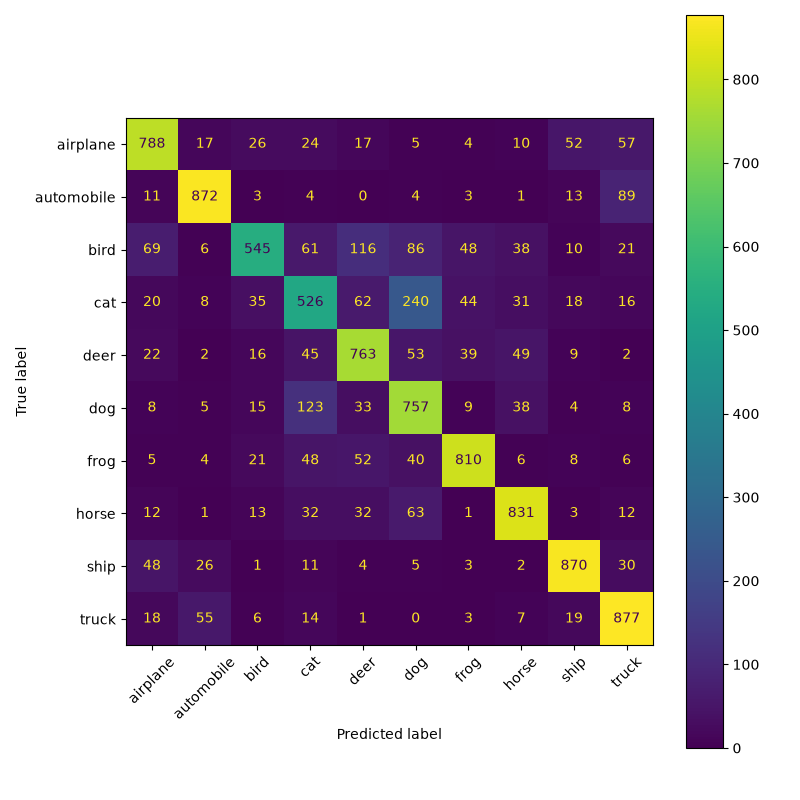
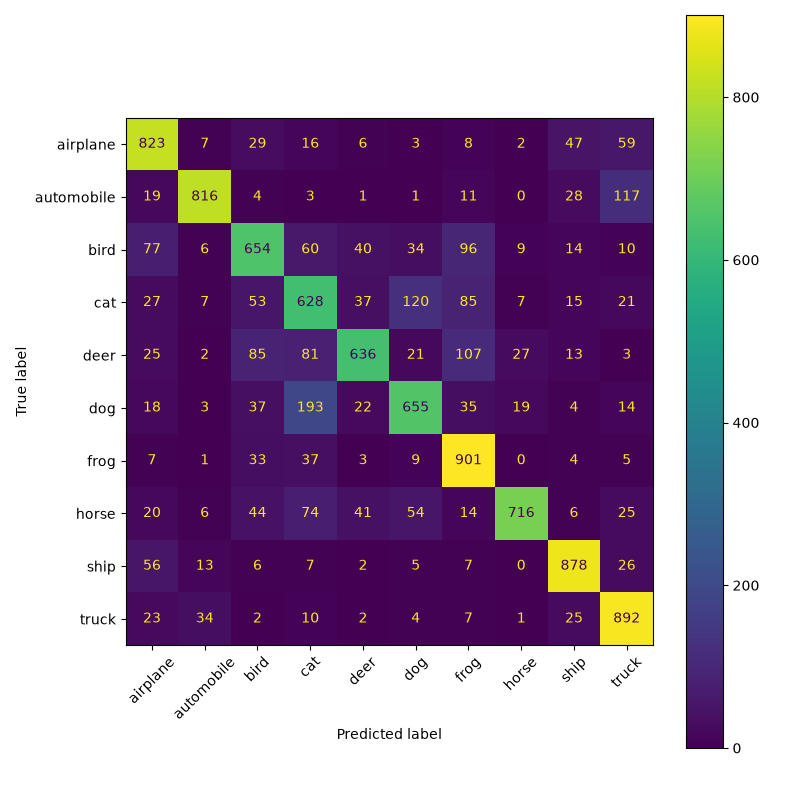
Shard data into smaller files for reliable DagsHub upload

diff --git a/src/train.py b/src/train.py
@@ -1,31 +1,48 @@
-import os, yaml, numpy as np, pandas as pd, torch, torch.nn as nn
+import os
+import yaml
+import torch
+import torch.nn as nn
+import pandas as pd
+from data_io import load_split
 from models import build_model
 
 p = yaml.safe_load(open("params.yaml"))["train"]
 dev = "mps" if torch.backends.mps.is_available() else "cuda" if torch.cuda.is_available() else "cpu"
 
-def load(n):
-    d = np.load(f"data/processed/{n}.npz")
-    return torch.tensor(d["x"]).float(), torch.tensor(d["y"]).long()
 
-xtr, ytr = load("train"); xv, yv = load("val")
+def load(name):
+    x, y = load_split("data/processed", name)
+    return torch.tensor(x).float(), torch.tensor(y).long()
+
+
+xtr, ytr = load("train")
+xv, yv = load("val")
+
 model = build_model(p["num_filters"], p["dropout_rate"]).to(dev)
 opt = torch.optim.Adam(model.parameters(), lr=p["learning_rate"])
 lossf, bs, hist = nn.CrossEntropyLoss(), p["batch_size"], []
 
 for ep in range(p["epochs"]):
-    model.train(); perm = torch.randperm(len(xtr)); tot = 0
+    model.train()
+    perm, total = torch.randperm(len(xtr)), 0.0
     for i in range(0, len(xtr), bs):
-        idx = perm[i:i + bs]; xb, yb = xtr[idx].to(dev), ytr[idx].to(dev)
-        xb = torch.where(torch.rand(len(xb), 1, 1, 1, device=dev) < 0.5, xb.flip(3), xb)  # flip augmentation
-        opt.zero_grad(); loss = lossf(model(xb), yb); loss.backward(); opt.step()
-        tot += loss.item() * len(xb)
+        idx = perm[i:i + bs]
+        xb, yb = xtr[idx].to(dev), ytr[idx].to(dev)
+        flip = torch.rand(len(xb), device=dev) < 0.5                 # random horizontal flip
+        xb = torch.where(flip[:, None, None, None], xb.flip(3), xb)
+        opt.zero_grad()
+        loss = lossf(model(xb), yb)
+        loss.backward()
+        opt.step()
+        total += loss.item() * len(xb)
+
     model.eval()
     with torch.no_grad():
-        out = torch.cat([model(xv[i:i+1000].to(dev)).cpu() for i in range(0, len(xv), 1000)])
-    hist.append(dict(epoch=ep + 1, train_loss=tot / len(xtr), val_loss=lossf(out, yv).item(),
-                     val_acc=(out.argmax(1) == yv).float().mean().item()))
-    print(hist[-1])
+        out = torch.cat([model(xv[i:i + 1000].to(dev)).cpu() for i in range(0, len(xv), 1000)])
+    row = dict(epoch=ep + 1, train_loss=total / len(xtr),
+               val_loss=lossf(out, yv).item(), val_acc=(out.argmax(1) == yv).float().mean().item())
+    hist.append(row)
+    print(row, flush=True)
 
 os.makedirs("models", exist_ok=True)
 torch.save(model.state_dict(), "models/model.pth")

diff --git a/src/evaluate.py b/src/evaluate.py
@@ -1,23 +1,34 @@
-import json, yaml, numpy as np, torch, torch.nn.functional as F
-import matplotlib; matplotlib.use("Agg")
+import json
+import yaml
+import torch
+import torch.nn.functional as F
+import matplotlib
+matplotlib.use("Agg")
 import matplotlib.pyplot as plt
 from sklearn.metrics import confusion_matrix, ConfusionMatrixDisplay
+from data_io import load_split
 from models import build_model
 
 p = yaml.safe_load(open("params.yaml"))["train"]
 dev = "mps" if torch.backends.mps.is_available() else "cuda" if torch.cuda.is_available() else "cpu"
-d = np.load("data/processed/test.npz")
-x, y = torch.tensor(d["x"]).float(), torch.tensor(d["y"]).long()
+
+x, y = load_split("data/processed", "test")
+x, y = torch.tensor(x).float(), torch.tensor(y).long()
 
 model = build_model(p["num_filters"], p["dropout_rate"]).to(dev)
-model.load_state_dict(torch.load("models/model.pth", map_location=dev)); model.eval()
+model.load_state_dict(torch.load("models/model.pth", map_location=dev))
+model.eval()
 with torch.no_grad():
-    out = torch.cat([model(x[i:i+1000].to(dev)).cpu() for i in range(0, len(x), 1000)])
+    out = torch.cat([model(x[i:i + 1000].to(dev)).cpu() for i in range(0, len(x), 1000)])
 
 pred = out.argmax(1)
-json.dump({"test_loss": F.cross_entropy(out, y).item(),
-           "test_accuracy": (pred == y).float().mean().item()}, open("metrics.json", "w"), indent=2)
-classes = ["airplane","automobile","bird","cat","deer","dog","frog","horse","ship","truck"]
+metrics = {"test_loss": F.cross_entropy(out, y).item(),
+           "test_accuracy": (pred == y).float().mean().item()}
+json.dump(metrics, open("metrics.json", "w"), indent=2)
+print(metrics)
+
+classes = ["airplane", "automobile", "bird", "cat", "deer", "dog", "frog", "horse", "ship", "truck"]
 fig, ax = plt.subplots(figsize=(8, 8))
 ConfusionMatrixDisplay(confusion_matrix(y, pred), display_labels=classes).plot(ax=ax, xticks_rotation=45)
-plt.tight_layout(); plt.savefig("confusion_matrix.png")
+plt.tight_layout()
+plt.savefig("confusion_matrix.png")

diff --git a/src/preprocess.py b/src/preprocess.py
@@ -1,19 +1,26 @@
-import os, yaml, numpy as np
+import yaml
+import numpy as np
 from sklearn.model_selection import train_test_split
+from data_io import load_split, save_split
 
 p = yaml.safe_load(open("params.yaml"))["preprocess"]
-tr, te = np.load("data/raw/train.npz"), np.load("data/raw/test.npz")
-assert tr["x"].shape[1] == p["image_size"]
 
-x = tr["x"].astype("float32") / 255.0
-xt = te["x"].astype("float32") / 255.0
-mean, std = x.mean(axis=(0, 1, 2)), x.std(axis=(0, 1, 2))
-x, xt = (x - mean) / std, (xt - mean) / std
-x, xt = x.transpose(0, 3, 1, 2), xt.transpose(0, 3, 1, 2)
+x, y = load_split("data/raw", "train")
+xt, yt = load_split("data/raw", "test")
+assert x.shape[1] == p["image_size"], "image_size in params.yaml does not match data"
+
+x = x.astype("float32") / 255.0
+xt = xt.astype("float32") / 255.0
 
 xtr, xv, ytr, yv = train_test_split(
-    x, tr["y"], test_size=p["val_size"], random_state=p["seed"], stratify=tr["y"])
+    x, y, test_size=p["val_size"], random_state=p["seed"], stratify=y
+)
 
-os.makedirs("data/processed", exist_ok=True)
-for n, a, b in [("train", xtr, ytr), ("val", xv, yv), ("test", xt, te["y"])]:
-    np.savez(f"data/processed/{n}.npz", x=a.astype("float16"), y=b)  # float16 halves the size
+# Normalization (per-channel standardization using TRAIN statistics only)
+mean, std = xtr.mean(axis=(0, 1, 2)), xtr.std(axis=(0, 1, 2))
+norm = lambda a: ((a - mean) / std).transpose(0, 3, 1, 2).astype("float16")  # NHWC -> NCHW
+
+# processed train (~276 MB float16) -> 10 shards; val -> 1; test -> 2
+save_split("data/processed", "train", norm(xtr), ytr, 10)
+save_split("data/processed", "val", norm(xv), yv, 1)
+save_split("data/processed", "test", norm(xt), yt, 2)

diff --git a/src/models.py b/src/models.py
@@ -1,8 +1,14 @@
 import torch.nn as nn
 
-def build_model(f, dropout):
+
+def build_model(filters, dropout):
+    # Conv -> BatchNorm -> ReLU -> MaxPool -> Conv -> BatchNorm -> ReLU -> MaxPool
+    # -> Dense -> Dropout -> Output(10)
     return nn.Sequential(
-        nn.Conv2d(3, f, 3, padding=1), nn.BatchNorm2d(f), nn.ReLU(), nn.MaxPool2d(2),
-        nn.Conv2d(f, 2 * f, 3, padding=1), nn.BatchNorm2d(2 * f), nn.ReLU(), nn.MaxPool2d(2),
-        nn.Flatten(), nn.Linear(2 * f * 8 * 8, 256), nn.ReLU(),
-        nn.Dropout(dropout), nn.Linear(256, 10))
+        nn.Conv2d(3, filters, 3, padding=1), nn.BatchNorm2d(filters), nn.ReLU(), nn.MaxPool2d(2),
+        nn.Conv2d(filters, 2 * filters, 3, padding=1), nn.BatchNorm2d(2 * filters), nn.ReLU(), nn.MaxPool2d(2),
+        nn.Flatten(),
+        nn.Linear(2 * filters * 8 * 8, 256), nn.ReLU(),
+        nn.Dropout(dropout),
+        nn.Linear(256, 10),
+    )

diff --git a/src/data_io.py b/src/data_io.py
@@ -1,0 +1,17 @@
+import glob
+import os
+import numpy as np
+
+
+def save_split(folder, name, x, y, n_shards):
+    """Save x, y as n_shards small .npz files: <folder>/<name>_0.npz, ..."""
+    os.makedirs(folder, exist_ok=True)
+    for i, (a, b) in enumerate(zip(np.array_split(x, n_shards), np.array_split(y, n_shards))):
+        np.savez(f"{folder}/{name}_{i}.npz", x=a, y=b)
+
+
+def load_split(folder, name):
+    """Load and concatenate all shards of a split, in order."""
+    files = sorted(glob.glob(f"{folder}/{name}_*.npz"), key=lambda f: int(f.rsplit("_", 1)[1][:-4]))
+    parts = [np.load(f) for f in files]
+    return np.concatenate([p["x"] for p in parts]), np.concatenate([p["y"] for p in parts])

diff --git a/src/prepare.py b/src/prepare.py
@@ -1,7 +1,8 @@
-import os, numpy as np
+import numpy as np
 from torchvision import datasets
+from data_io import save_split
 
-os.makedirs("data/raw", exist_ok=True)
-for name, train in [("train", True), ("test", False)]:
+# raw train (~154 MB) -> 5 shards of ~31 MB; raw test (~31 MB) -> 1 shard
+for name, train, shards in [("train", True, 5), ("test", False, 1)]:
     ds = datasets.CIFAR10("data/_download", train=train, download=True)
-    np.savez(f"data/raw/{name}.npz", x=ds.data, y=np.array(ds.targets))
+    save_split("data/raw", name, ds.data, np.array(ds.targets), shards)
